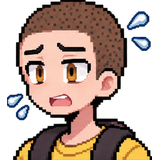
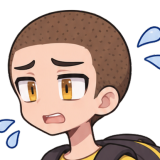
Restaura a ilustração aprovada de Cálculo; retratos e rostos dos alunos no estilo liso
- assets/chefes/calculo.png volta a ser o professor Flávio (o commit bb617c5
  tinha gravado por cima uma versão antiga); montar_sem_pixel.py não mexe mais nela
- Retratos da matrícula e rostos do HUD dos sete alunos sem pixels

diff --git a/ferramentas/montar_sem_pixel.py b/ferramentas/montar_sem_pixel.py
@@ -6,6 +6,8 @@
 - sprites/<pasta>_<animação>_<n>q.png -> assets/sprites/<pasta>/<animação>-<n>.png (tira da partida: os quadros
                            são lidos linha por linha, espelhados para olhar para a direita e postos na mesma
                            altura e na mesma linha de chão)
+- <classe>.png           -> assets/retratos/<classe>.png (arte principal do aluno, na matrícula) e
+                           assets/rostos/<classe>.png (o rosto do HUD e da carteirinha, recortado da cabeça)
 
 Uso: .venv/bin/python ferramentas/montar_sem_pixel.py
 """
@@ -17,8 +19,11 @@ import pygame  # noqa: E402
 
 RAIZ = Path(__file__).resolve().parent.parent
 BRUTO = RAIZ / "nova_arte" / "_bruto" / "sem_pixel"
-CHEFES = ("calculo", "arquitetura_ed", "td_poo")
+# o de Cálculo não entra aqui: a ilustração aprovada dele vem de nova_arte/_bruto/ilustracoes/calculo_flavio_v2.png
+CHEFES = ("arquitetura_ed", "td_poo")
 CRUPIES = ("gamer", "mestre_de_rpg", "monitor")
+ALUNOS = ("otaku", "programador", "mestre_de_rpg", "monitor", "gamer", "calouro", "cara_da_carona")
+ALTURA_RETRATO, LADO_DO_ROSTO = 900, 160
 EXPRESSOES = ("espera", "torcida", "riso", "choro")      # a ordem das poses na folha
 ALTURA_CHEFE, ALTURA_CRUPIE = 900, 360
 # folha, pasta, animação, quadros, linhas da folha, altura na tela
@@ -84,11 +89,29 @@ def montar():
             recorte = pose.subsurface((caixa.x, topo, caixa.w, base - topo)).copy()
             pygame.image.save(na_altura(recorte, ALTURA_CRUPIE), str(destino / f"{expressao}.png"))
         print("crupiê", nome)
+    for nome in ALUNOS:
+        origem = BRUTO / f"{nome}.png"
+        if origem.exists():
+            montar_aluno(pygame.image.load(str(origem)).convert_alpha(), nome)
+            print("aluno", nome)
     for folha, pasta, animacao, quadros, linhas, altura in TIRAS:
         origem = BRUTO / "sprites" / folha
         if origem.exists():
             montar_tira(pygame.image.load(str(origem)).convert_alpha(), pasta, animacao, quadros, linhas, altura)
             print("tira", pasta, animacao)
+
+
+def montar_aluno(arte, nome):
+    """Grava o retrato (o desenho inteiro, sem as margens vazias) e o rosto (um quadrado em volta da cabeça)."""
+    figura = arte.subsurface(arte.get_bounding_rect()).copy()
+    pygame.image.save(na_altura(figura, ALTURA_RETRATO), str(RAIZ / "assets" / "retratos" / f"{nome}.png"))
+    lado = round(figura.get_height() * 0.23)                 # a cabeça ocupa perto de um quinto da altura
+    faixa = pygame.mask.from_surface(figura.subsurface((0, 0, figura.get_width(), lado)), 40)
+    centro_x = round(faixa.centroid()[0])                    # o meio da cabeça, não o do corpo
+    rosto = pygame.Surface((lado, lado), pygame.SRCALPHA)
+    rosto.blit(figura, (lado // 2 - centro_x, round(lado * 0.04)))
+    pygame.image.save(pygame.transform.smoothscale(rosto, (LADO_DO_ROSTO, LADO_DO_ROSTO)),
+                      str(RAIZ / "assets" / "rostos" / f"{nome}.png"))
 
 
 def montar_tira(folha, pasta, animacao, quadros, linhas, altura):

diff --git a/docs/registro_ia.md b/docs/registro_ia.md
@@ -61,3 +61,4 @@ Segue o formato pedido no enunciado: uma tabela por etapa, com onde a IA foi usa
 | 4 | Ataques dos professores e dos mini-chefes com desenho próprio no lugar das bolinhas com símbolo: bandejas, pratos e o panelão de sopa da Tia da Cantina, a turma de loirinhas da Loira da Odontologia, batarangue que volta, carimbo de INDEFERIDO do Reitor, frasco de ácido do Técnico, e os símbolos de cada matéria desenhados (16 folhas de arte no estilo liso, recortadas por `ferramentas/montar_ataques.py`) (Claude Code, com arte do ChatGPT e testes) | Pedimos que cada um atacasse com coisas do próprio tema. Conferimos por captura de tela: o giz usado para marcar os lacaios do Cálculo saiu grande demais e foi trocado pelo esquadro. O comportamento novo entrou por métodos sobrescritos (`criar_projetil`, `receber_lacaio`, `ao_cair`, `mover`), sem mexer no laço do `Jogo`. |
 | 4 | Chefes de Arquitetura/ED e de TD/POO com a aparência dos nossos professores, na ilustração de apresentação e no sprite da partida (andar em 8 quadros, parado em 4), no mesmo estilo do professor de Cálculo; o de ED faz cosplay de super-herói de capa vermelha (Claude Code, com arte do ChatGPT a partir das fotos, com permissão dos professores) | Foram várias voltas até acertar: a versão só por descrição não parecia com ninguém, a com rosto fotográfico ficou feia e cabeçuda, e a capa com bandeira não era o que queríamos. Ficamos com rosto ilustrado reconhecível, cabeça em proporção normal e capa lisa. |
 | 4 | Ataque novo do professor de ED: raios laser vermelhos pelos olhos (`RaiosPelosOlhos`, uma ação do chefe: a mira acompanha o aluno, trava e só então os dois feixes saem) (Claude Code, com testes) | Na primeira versão os raios saíam paralelos à linha do corpo e passavam por cima do aluno, e os dois feixes se fundiam num só; a mira passou a partir dos olhos do sprite e os feixes ficaram finos e afastados. |
+| 4 | Retratos da matrícula e rostos do HUD dos sete alunos no estilo liso; ilustração aprovada do professor de Cálculo restaurada (Claude Code, com arte do ChatGPT) | A ferramenta de montagem que a IA criou regravava a ilustração de Cálculo com uma versão antiga e isso chegou à main sem percebermos; só vimos jogando. Restauramos a aprovada e tiramos Cálculo da ferramenta. Os bonecos da partida seguem em pixel: a troca de cores do aluno depende da cor dos pixels. |
